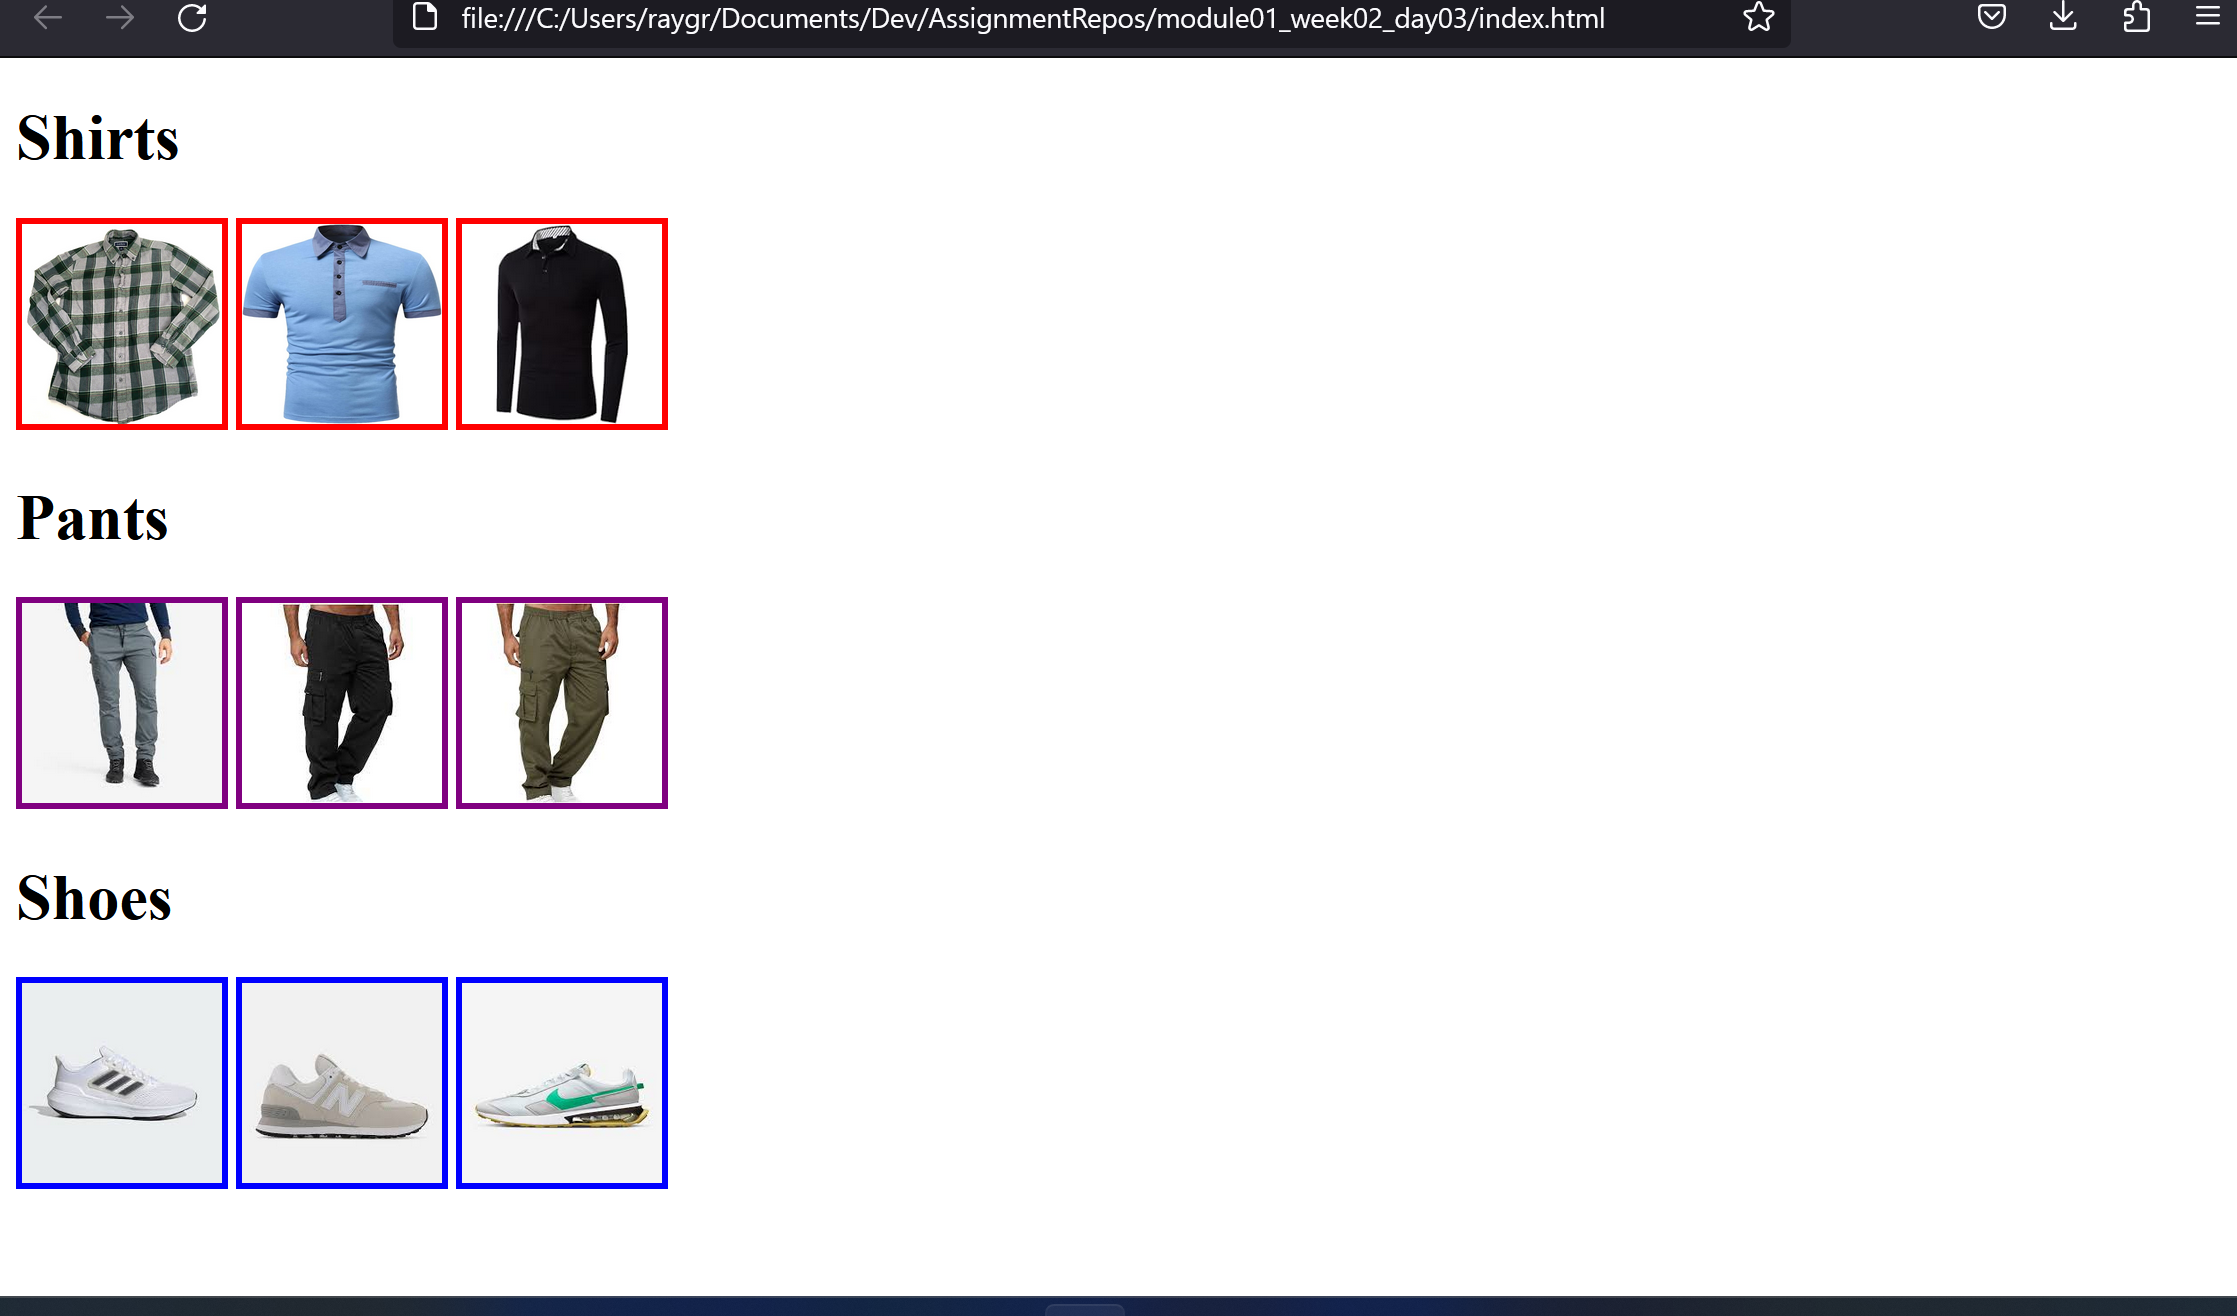
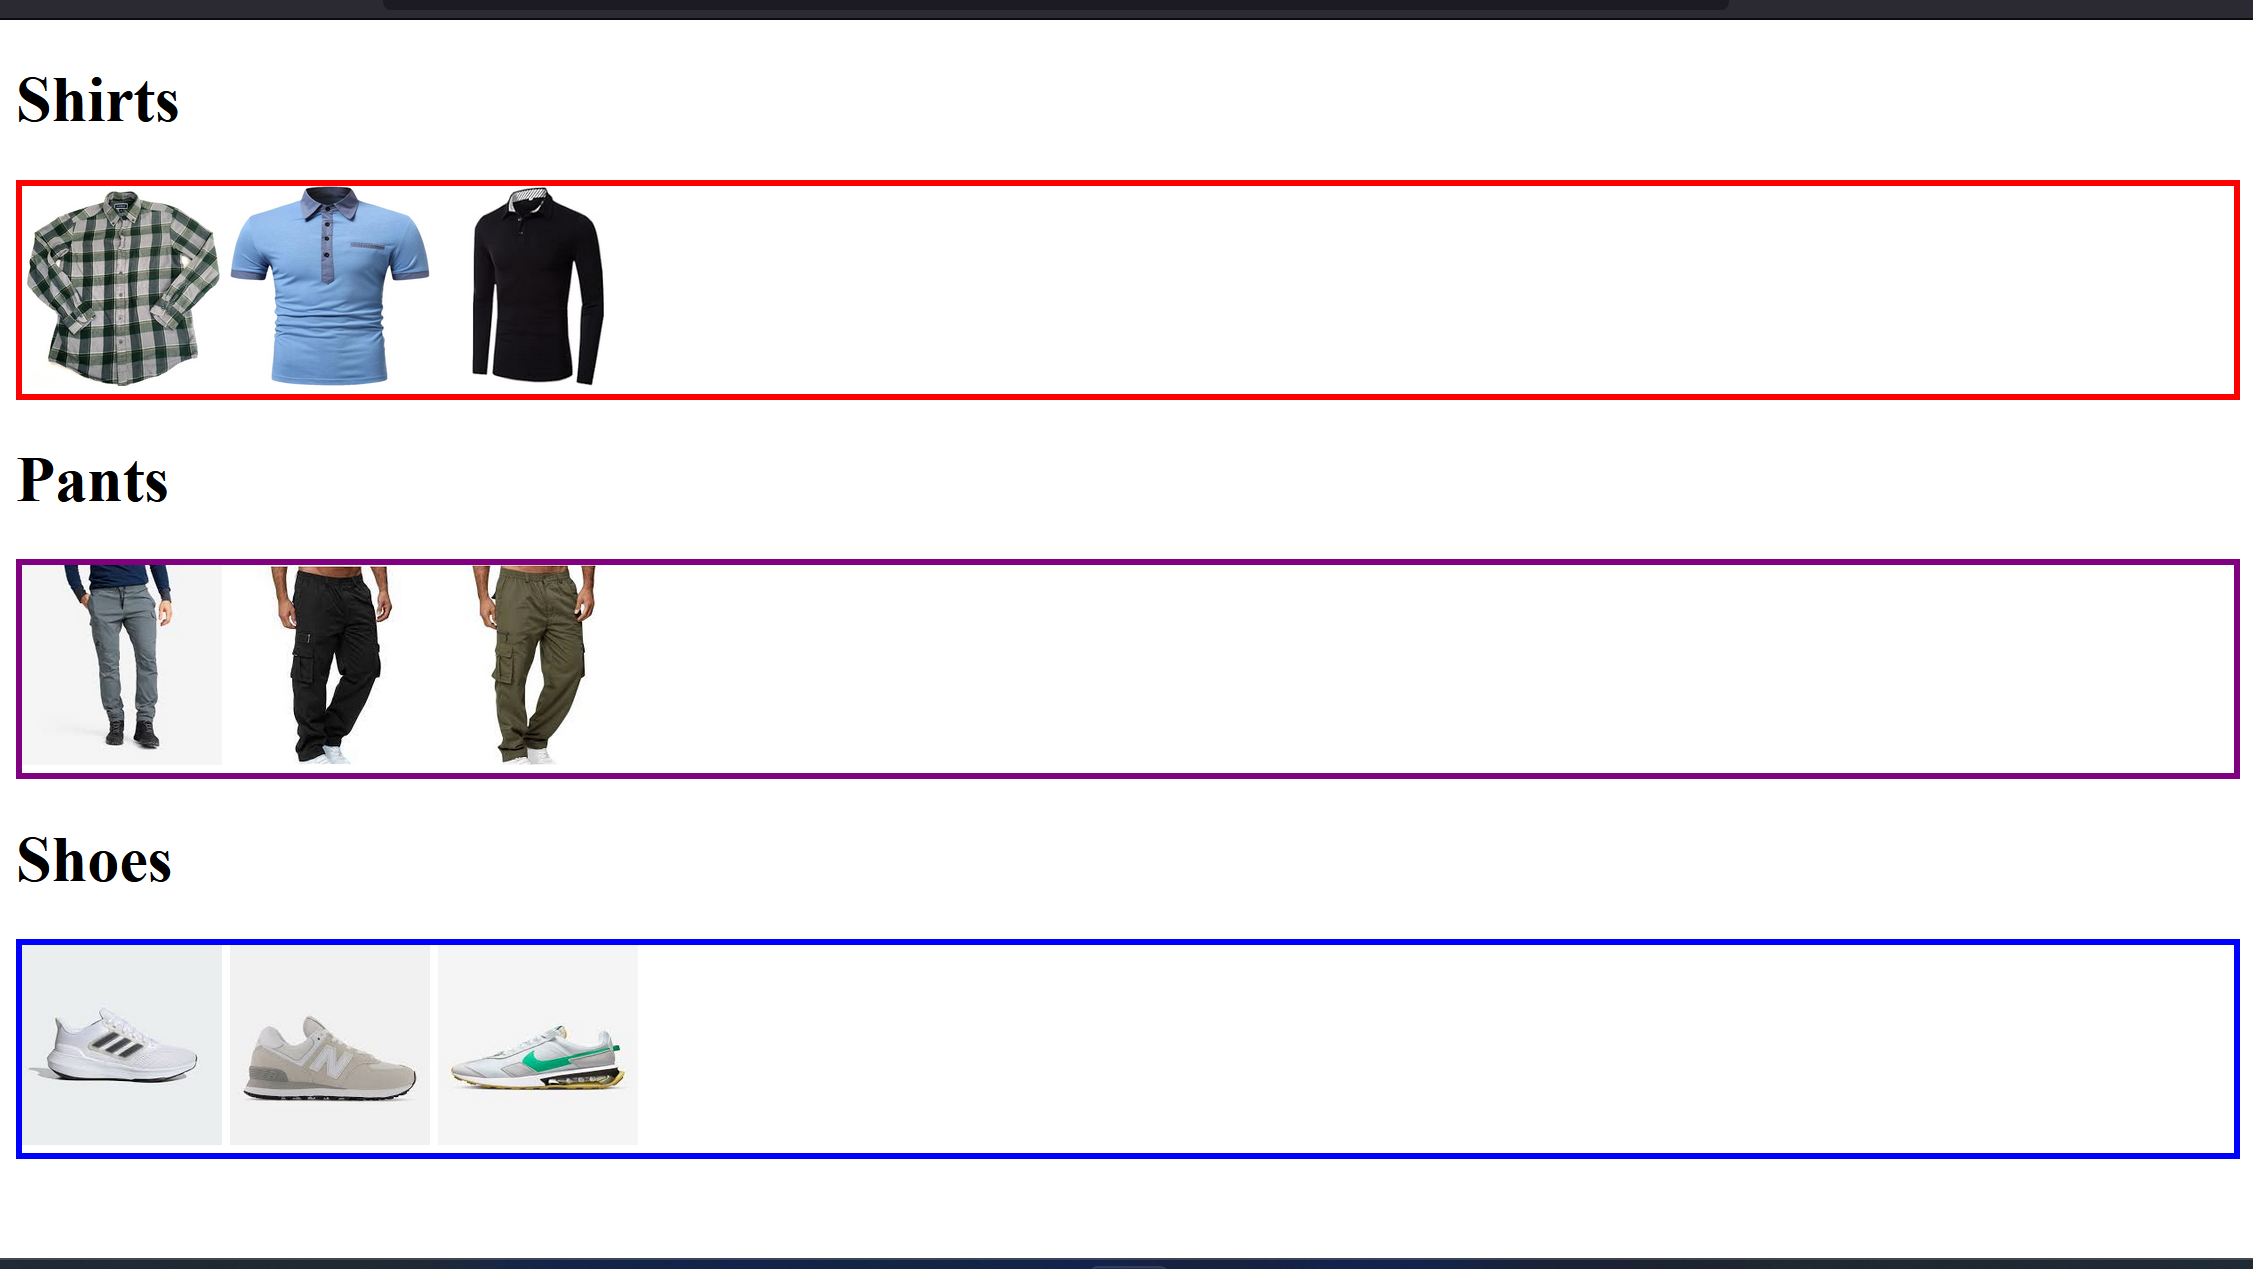
update to assignment details

diff --git a/index.html b/index.html
@@ -2,21 +2,39 @@
 
 <div>
     <h1>Shirts</h1>
-    <img class="shirts" width="100" height="100" src="./assets/shirt/shirt.jpg" />
-    <img class="shirts" width="100" height="100" src="./assets/shirt/shirt2.jpg" />
-    <img class="shirts" width="100" height="100" src="./assets/shirt/shirt3.jpg" />
+    <div class="shirts">
+    <img width="100" height="100" src="./assets/shirt/shirt.jpg" />
+    <img width="100" height="100" src="./assets/shirt/shirt2.jpg" />
+    <img width="100" height="100" src="./assets/shirt/shirt3.jpg" />
+    </div>
 </div>
 
 <div>
     <h1>Pants</h1>
-    <img class="pants" width="100" height="100" src="./assets/pants/Pants.jpg" />
-    <img class="pants" width="100" height="100" src="./assets/pants/Pants2.jpg" />
-    <img class="pants" width="100" height="100" src="./assets/pants/Pants3.jpg" />
+    <div class="pants">
+    <img width="100" height="100" src="./assets/pants/Pants.jpg" />
+    <img width="100" height="100" src="./assets/pants/Pants2.jpg" />
+    <img width="100" height="100" src="./assets/pants/Pants3.jpg" />
+    </div>
 </div>
 
 <div>
     <h1>Shoes</h1>
-    <img class="shoes" width="100" height="100" src="./assets/shoes/AdidasShoe.jpg" />
-    <img class="shoes" width="100" height="100" src="./assets/shoes/NewBalanceShoe.jpg" />
-    <img class="shoes" width="100" height="100" src="./assets/shoes/NikeShoe.jpg" />
+    <div class="shoes">
+    <img width="100" height="100" src="./assets/shoes/AdidasShoe.jpg" />
+    <img width="100" height="100" src="./assets/shoes/NewBalanceShoe.jpg" />
+    <img width="100" height="100" src="./assets/shoes/NikeShoe.jpg" />
 </div>
+</div>
+
+<style>
+    .shirts{
+        border: 3px solid red;
+    }
+    .pants{
+        border: 3px solid purple;
+    }
+    .shoes{
+        border: 3px solid blue;
+    }
+</style>

diff --git a/README.md b/README.md
@@ -9,7 +9,7 @@ Link the stylesheet (index.css) to the htnl file (index.html):
 - Add a link tag to the top of the html file (index.html)
   - Change value of the 'src' attribute on the link tag to a file-path of the stylesheet.
   
-Use the stylesheet to color-code the image borders for the different categories of items.
+Use the stylesheet to color-code the borders for the different categories of items.
 - Add a style block for the 'shirts' class (.shirts)
   - Use the 'border' property to change the border of the shirts to red
 - Add a style block for the 'pants' class (.pants)
